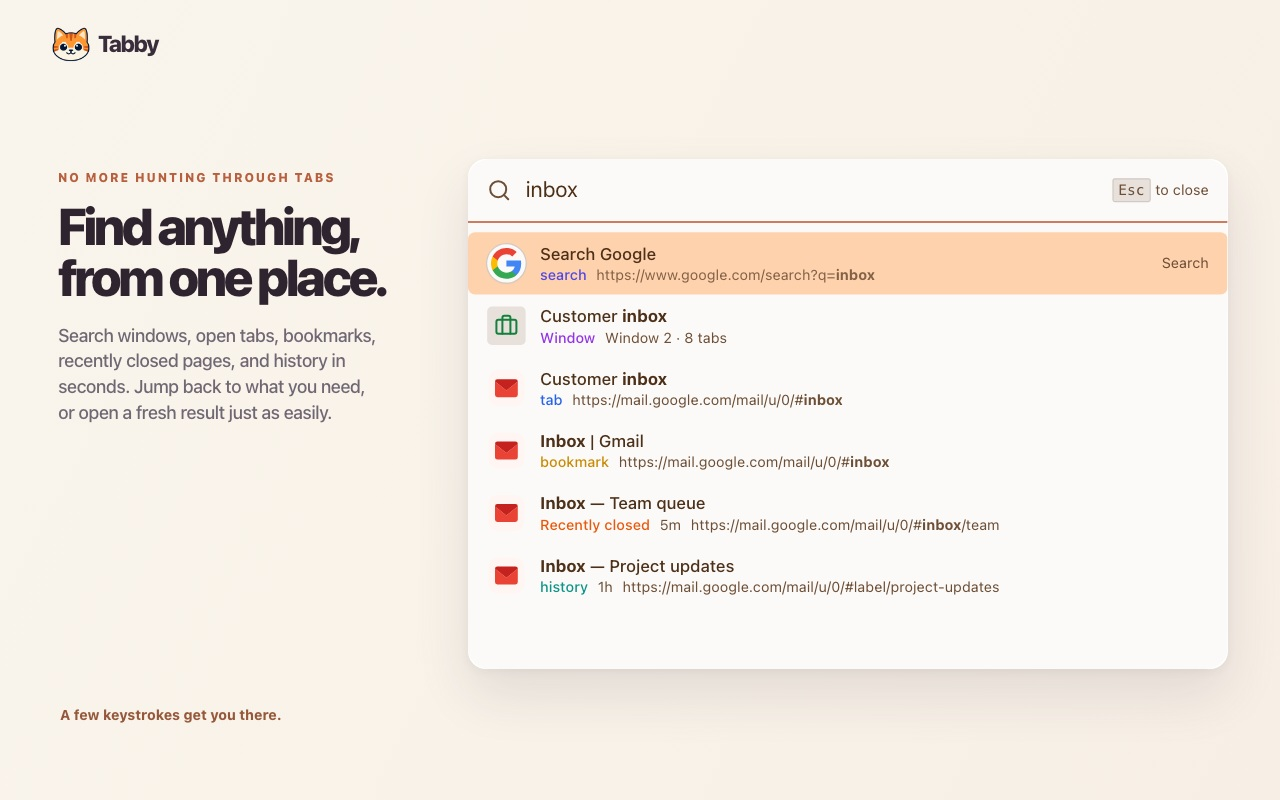
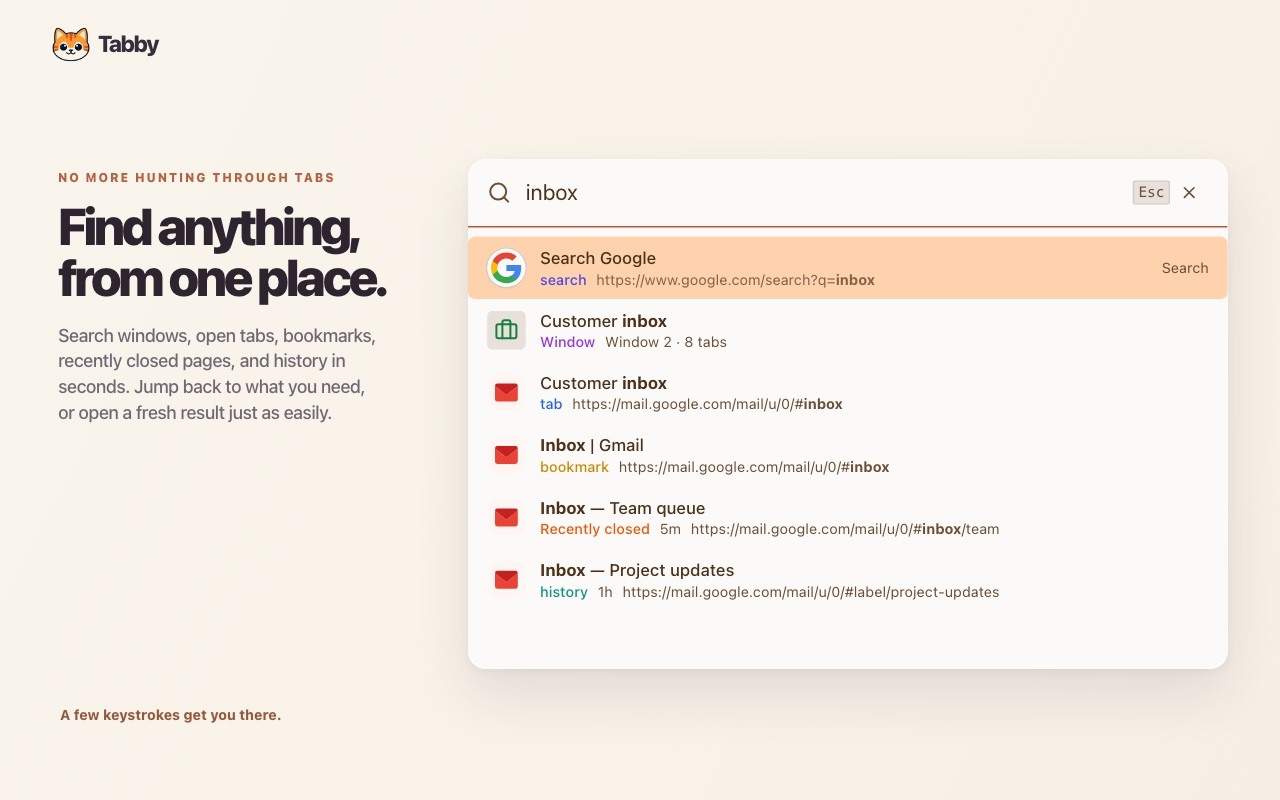
Close search with a click

diff --git a/packages/ui/lib/omnibar/OmnibarInput.tsx b/packages/ui/lib/omnibar/OmnibarInput.tsx
@@ -1,5 +1,5 @@
 import { forwardRef } from 'react'
-import { SearchIcon } from '../icons'
+import { CloseIcon, SearchIcon } from '../icons'
 import { Kbd } from '../Kbd'
 import { SummerMotionControl } from '../SummerTheme'
 
@@ -10,11 +10,20 @@ type OmnibarInputProps = {
   query: string
   onChange: (e: React.ChangeEvent<HTMLInputElement>) => void
   onKeyDown: (e: React.KeyboardEvent) => void
+  onDismiss: () => void
 }
 
 export const OmnibarInput = forwardRef<HTMLInputElement, OmnibarInputProps>(
   (
-    { query, onChange, onKeyDown, resultsId, activeResultId, hasResults },
+    {
+      query,
+      onChange,
+      onKeyDown,
+      onDismiss,
+      resultsId,
+      activeResultId,
+      hasResults,
+    },
     ref,
   ) => {
     return (
@@ -39,7 +48,7 @@ export const OmnibarInput = forwardRef<HTMLInputElement, OmnibarInputProps>(
           autoComplete="off"
           spellCheck={false}
           className={`
-            flex-1 bg-transparent text-lg text-foreground outline-hidden
+            min-w-0 flex-1 bg-transparent text-lg text-foreground outline-hidden
             placeholder:text-muted
           `}
           placeholder="Search tabs, windows, groups, bookmarks, history…"
@@ -47,10 +56,23 @@ export const OmnibarInput = forwardRef<HTMLInputElement, OmnibarInputProps>(
           onChange={onChange}
           onKeyDown={onKeyDown}
         />
-        <div className="flex items-center gap-1 text-xs text-muted">
+        <div className="flex shrink-0 items-center gap-1 text-xs text-muted">
           <SummerMotionControl nightOnly active={!query} />
-          <Kbd>Esc</Kbd>
-          <span>to close</span>
+          <button
+            type="button"
+            aria-label="Close search"
+            title="Close search (Esc)"
+            onClick={onDismiss}
+            className={`
+              flex min-h-8 items-center gap-2 rounded-sm px-2
+              hover:bg-accent-hover hover:text-foreground
+              focus-visible:outline-2 focus-visible:outline-offset-2
+              focus-visible:outline-accent
+            `}
+          >
+            <Kbd>Esc</Kbd>
+            <CloseIcon aria-hidden="true" className="size-4" />
+          </button>
         </div>
       </div>
     )

diff --git a/packages/ui/lib/omnibar/Omnibar.spec.tsx b/packages/ui/lib/omnibar/Omnibar.spec.tsx
@@ -59,6 +59,27 @@ describe('Omnibar', () => {
   const mockOnDismiss = vi.fn()
   const renderOmnibar = render
 
+  it.each(['click', 'Escape'])(
+    'dismisses search with %s without clearing the query',
+    (method) => {
+      const onDismiss = vi.fn()
+      const onQueryChange = vi.fn()
+      render(
+        <Omnibar
+          results={mockTabs}
+          query="Tab"
+          onQueryChange={onQueryChange}
+          onDismiss={onDismiss}
+        />,
+      )
+      const close = screen.getByRole('button', { name: 'Close search' })
+      if (method === 'click') fireEvent.click(close)
+      else fireEvent.keyDown(close, { key: 'Escape' })
+      expect(onDismiss).toHaveBeenCalledTimes(1)
+      expect(onQueryChange).not.toHaveBeenCalled()
+    },
+  )
+
   it('keeps keyboard input with the initiating surface when shared omnibars mount', async () => {
     const Shared = () => {
       const [open, setOpen] = useState(false)

diff --git a/packages/ui/lib/omnibar/Omnibar.tsx b/packages/ui/lib/omnibar/Omnibar.tsx
@@ -239,6 +239,7 @@ export const Omnibar = ({
           setQuery(e.target.value)
         }}
         onKeyDown={handleKeyDown}
+        onDismiss={onDismiss}
       />
 
       <ScrollArea orientation="vertical" className="flex-1">

diff --git a/CHROMEWEBSTORE.md b/CHROMEWEBSTORE.md
@@ -1,6 +1,6 @@
 # Chrome Web Store listing — Tabby
 
-Last updated: 2026-11-12
+Last updated: 2026-11-13
 
 Publishing reference for Tabby's store listing, images, permissions explanations, privacy disclosures, and submission records. Detailed release notes are linked from the version history.
 
@@ -143,7 +143,7 @@ Appearance preferences, an unfinished search query, recent search choices, Tabby
 
 ## Version history
 
-Version 1.8.0 is in development. See its [draft release notes](product/releases/v1.8.0-new-release.md).
+Version 1.8.0 is in development and adds a clickable X to close search. See its [draft release notes](product/releases/v1.8.0-new-release.md).
 
 | Version                                                                      | Submission date | Summary                                                                                      | Store status   |
 | ---------------------------------------------------------------------------- | --------------- | -------------------------------------------------------------------------------------------- | -------------- |

diff --git a/product/releases/v1.8.0-new-release.md b/product/releases/v1.8.0-new-release.md
@@ -5,6 +5,10 @@
 
 ## What's New
 
+### Close search with a click
+
+Use the X button to close search with your mouse, keeping your query for next time.
+
 ### Find the right window icon
 
 Make each window easy to recognize with an icon, emoji, monogram, uploaded image, or favicon. Switch between saved choices for each type, with one shared background color. Search over 1,600 icons and find emoji by name or keyword.
